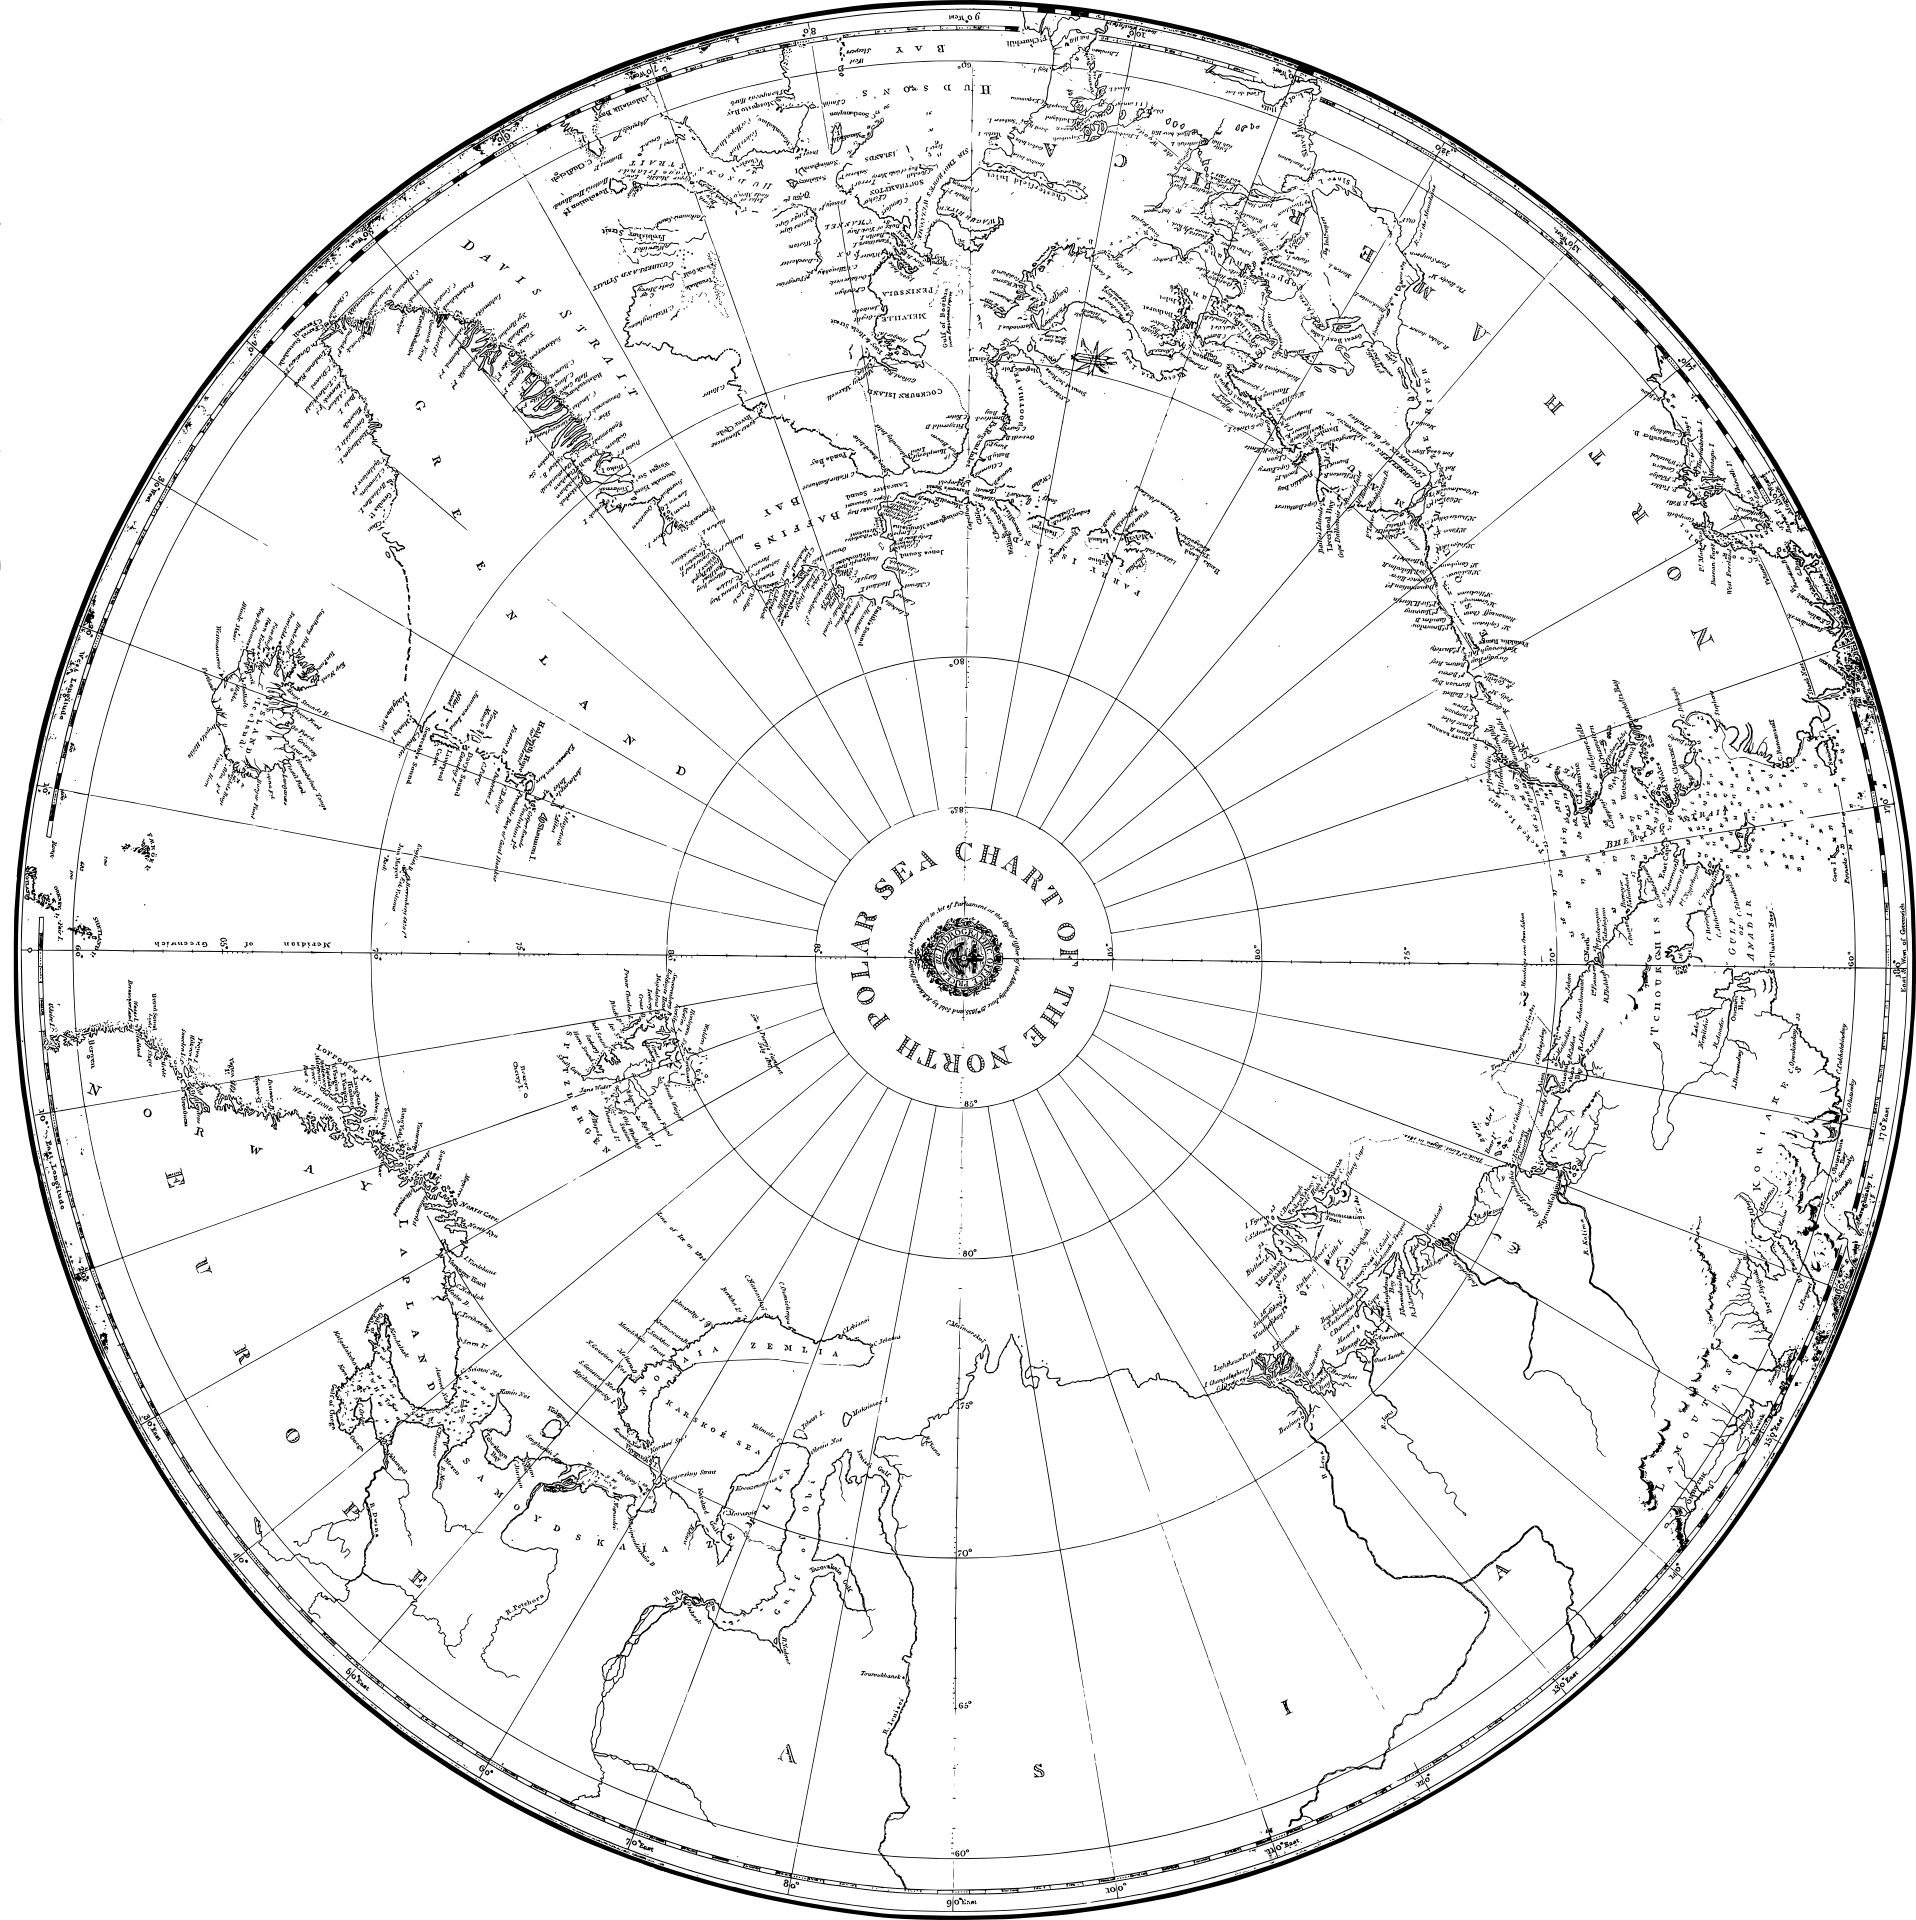
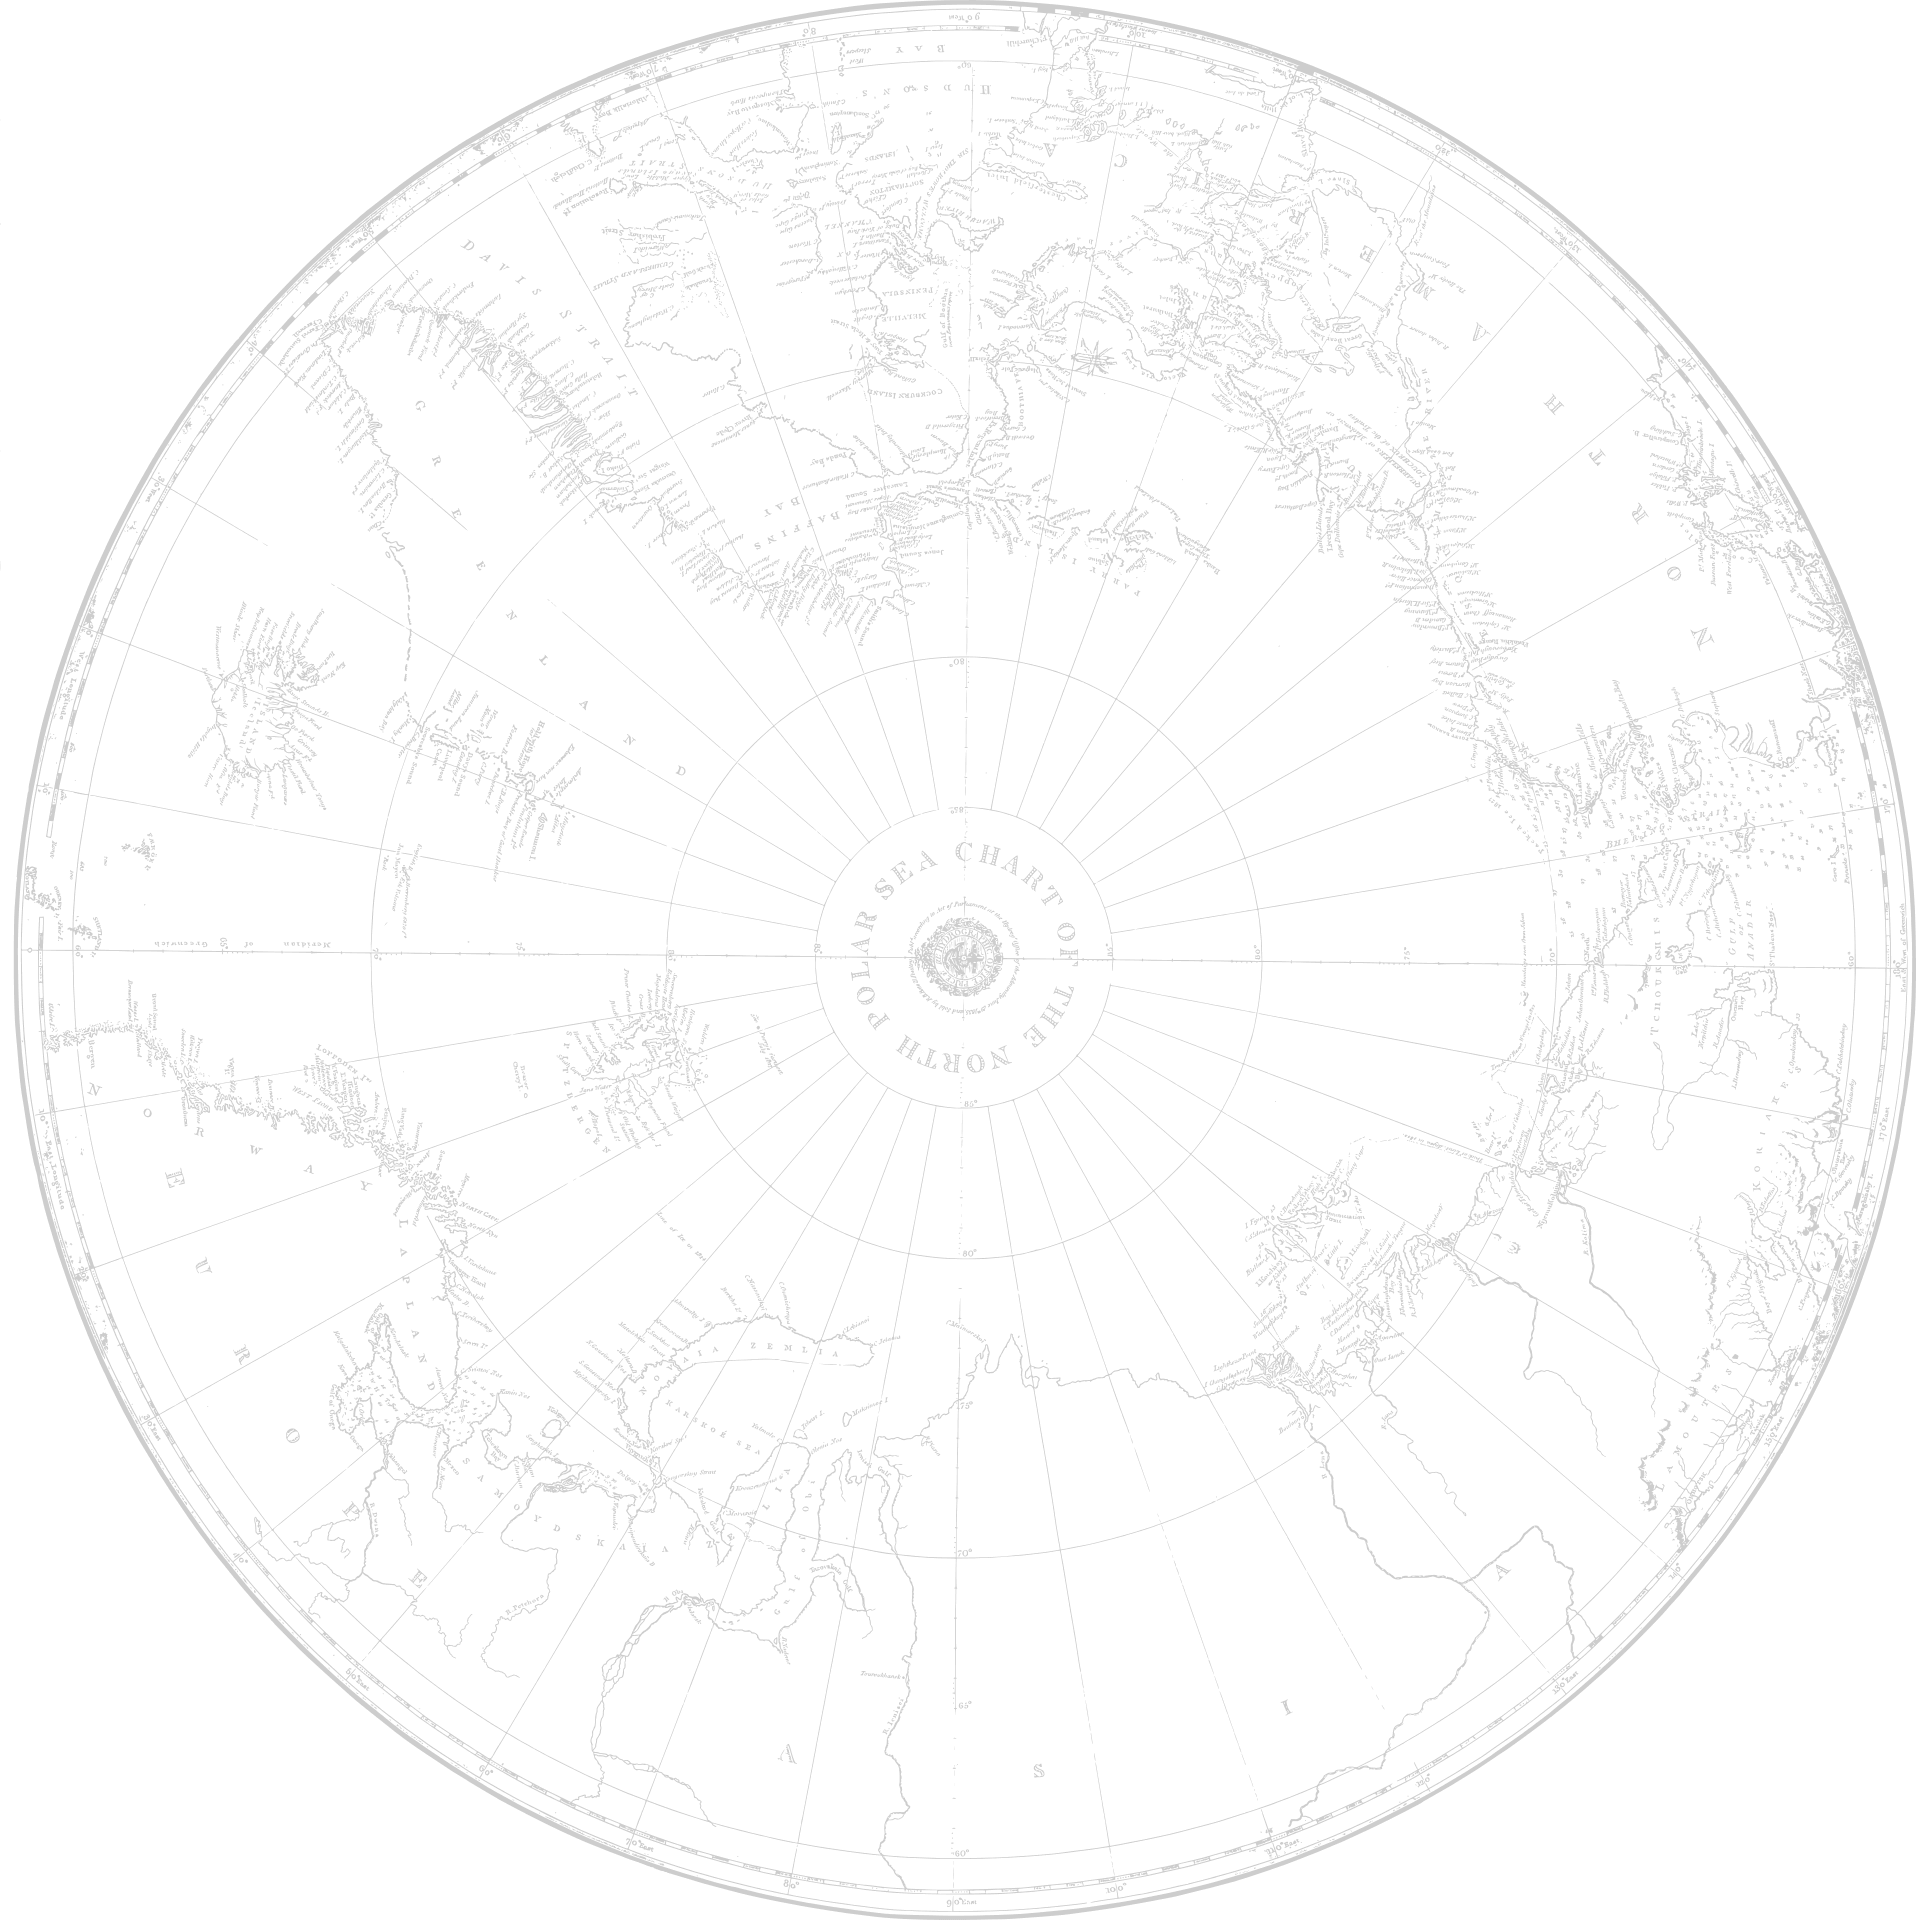
Add card to Testamonials.

diff --git a/assets/styles/css/main.css b/assets/styles/css/main.css
@@ -201,7 +201,7 @@ a {
   background-color: #fcfcfc;
 }
 
-.o-testamonials-wrapper {
+.o-test-wrapper {
   width: 100vw;
   height: 70vh;
   display: -webkit-box;
@@ -319,7 +319,7 @@ a {
 }
 
 /* ****** Testamonials ****** */
-.o-testamonials-bg {
+.o-test-bg {
   background-image: url("../../images/polar-chart.png");
   width: 100%;
   height: 83%;
@@ -332,7 +332,6 @@ a {
   -ms-transform: scale(1.2);
   -o-transform: scale(1.2);
   transform: scale(1.2);
-  opacity: 15%;
   display: -webkit-box;
   display: -ms-flexbox;
   display: flex;
@@ -528,6 +527,15 @@ a {
   -ms-transform: scale(1.01);
   -o-transform: scale(1.01);
   transform: scale(1.01);
+}
+
+.c-test-card1 {
+  width: 50%;
+  height: 60%;
+  max-width: 90rem;
+  max-height: 40rem;
+  background-color: #e2eff5;
+  box-shadow: 0.2rem 0.5rem 0.5rem 0 #b9b9b9;
 }
 
 /* ****** Waves (Codepen by Daniel Österman @Goodkatz) ****** */

diff --git a/index.html b/index.html
@@ -56,8 +56,10 @@
 
         <main class="o-main-wrapper">
             <!-- ****** Testamonials ****** -->
-            <section class="o-testamonials-wrapper">
-                <div class="o-testamonials-bg"></div>
+            <section class="o-test-wrapper">
+                <div class="o-test-bg">
+                    <div class="c-test-card1"></div>
+                </div>
             </section>
 
             <!-- ****** My Projects ****** -->

diff --git a/assets/styles/sass/objects/_media.scss b/assets/styles/sass/objects/_media.scss
@@ -18,7 +18,7 @@
 }
 
 /* ****** Testamonials ****** */
-.o-testamonials-bg {
+.o-test-bg {
     background-image: url("../../images/polar-chart.png");
     @include wrapper-size(100%, 83%);
     object-fit: cover;
@@ -26,7 +26,6 @@
     background-position-x: 90%;
     background-position-y: 28%;
     @include transform(scale(1.2));
-    opacity: 15%;
     @include flex(row, nowrap, center);
 }
 

diff --git a/assets/styles/sass/settings/_colours.scss b/assets/styles/sass/settings/_colours.scss
@@ -1,11 +1,12 @@
 $colourText: #494949;
 $colourBgLight: #fcfcfc;
-$colourTestamomialCard: #e1ecf2;
+$colourTestCard: #e2eff5;
 $colourCarouselLeft: #e36060;
 $colourCarouselRight: #66be7a;
 $colourLinks: #1461a8;
 $colourProjectCardText: #525252;
 $colourTextShadow: #636363;
+$colourCardShadow: #b9b9b9;
 $colourMyselfBgDark: #a2bece;
 $colourMyselfBgLight: #dce9ee;
 $colourBgBright: #fff;

diff --git a/assets/styles/sass/components/_testamonials.scss b/assets/styles/sass/components/_testamonials.scss
@@ -1,0 +1,10 @@
+@use "../settings" as *;
+@use "../tools" as *;
+
+.c-test-card1 {
+    @include wrapper-size(50%, 60%);
+    max-width: 90rem;
+    max-height: 40rem;
+    background-color: $colourTestCard;
+    box-shadow: 0.2rem 0.5rem 0.5rem 0 $colourCardShadow;
+}

diff --git a/assets/styles/sass/objects/_wrappers.scss b/assets/styles/sass/objects/_wrappers.scss
@@ -55,7 +55,7 @@
     background-color: $colourBgLight;
 }
 
-.o-testamonials-wrapper {
+.o-test-wrapper {
     @include wrapper-size(100vw, 70vh);
     @include flex(row, nowrap, center, center);
 }

diff --git a/assets/styles/sass/components/_index.scss b/assets/styles/sass/components/_index.scss
@@ -3,3 +3,4 @@
 @forward "frames";
 @forward "nav";
 @forward "logo";
+@forward "testamonials";
